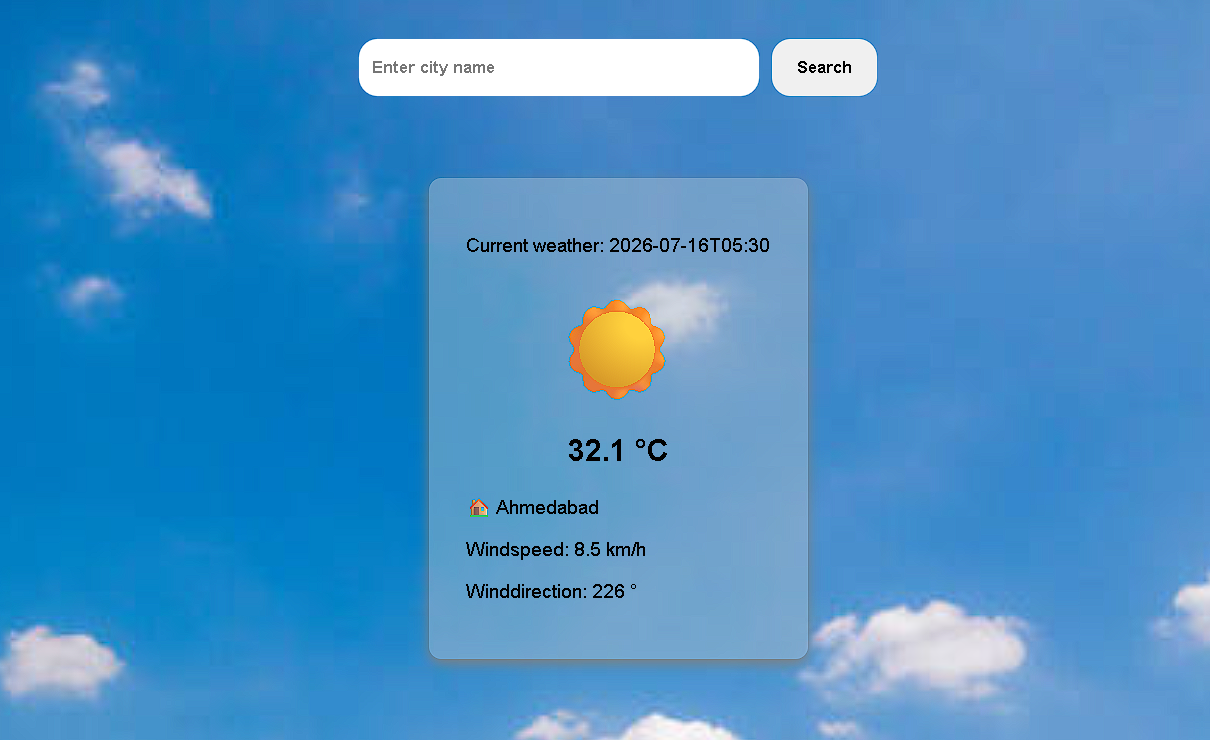
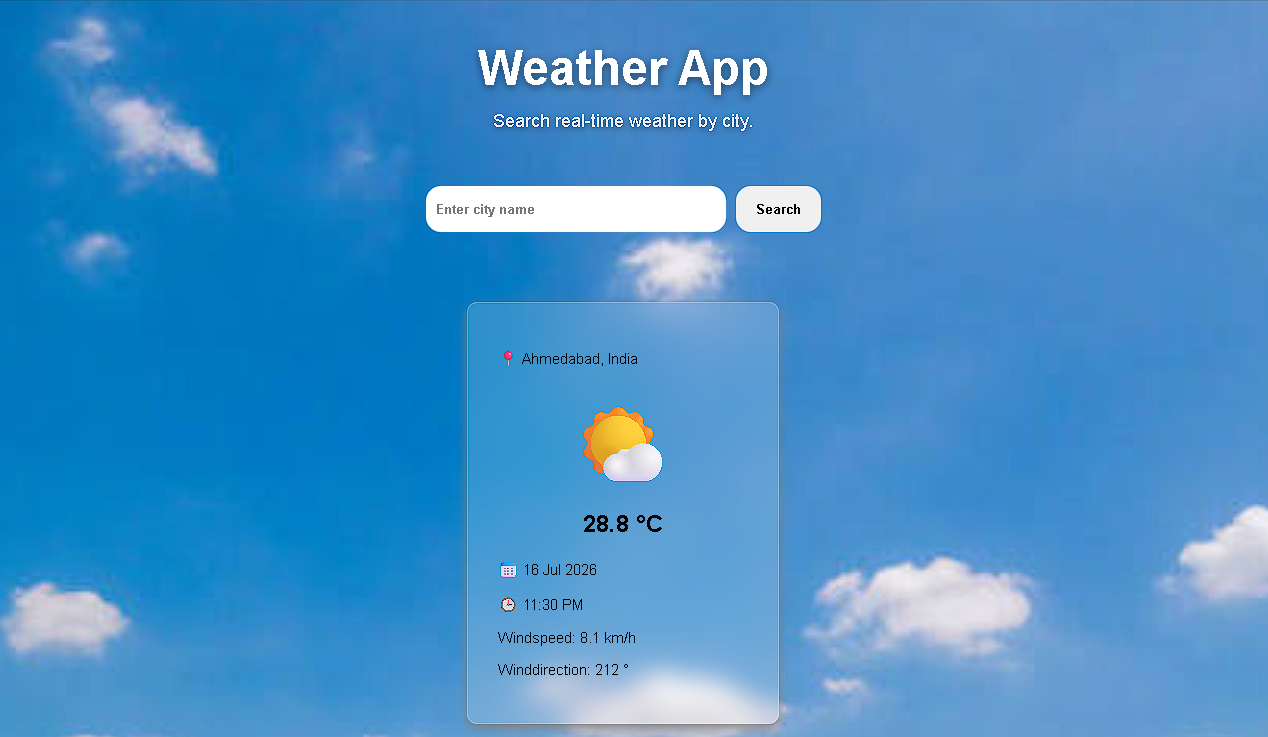
responsive nav bar fix links gap

diff --git a/index.html b/index.html
@@ -103,7 +103,7 @@
                 <a href="https://github.com/himanshujadav27" target="_blank" rel="noopener noreferrer">GitHub</a>
 
                 <a href="https://www.linkedin.com/in/himanshu-jadav-a71290422/" target="_blank" rel="noopener noreferrer">LinkedIn</a>
-
+                
                 <a href="mailto:[email redacted]" target="_blank" rel="noopener noreferrer">Email</a>
 
             </div>
@@ -114,6 +114,7 @@
         <button id="top_btn" class="top-btn">↑</button>
 
     </main>
+
 
 </body>
 </html>

diff --git a/assets/style.css b/assets/style.css
@@ -973,7 +973,7 @@ footer a:hover {
 
         flex-direction:row;
 
-        gap:18px;
+        gap:22px;
 
         padding:20px;
 